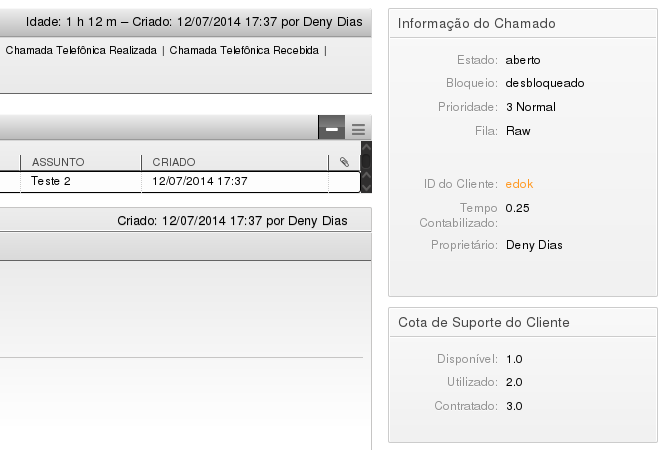
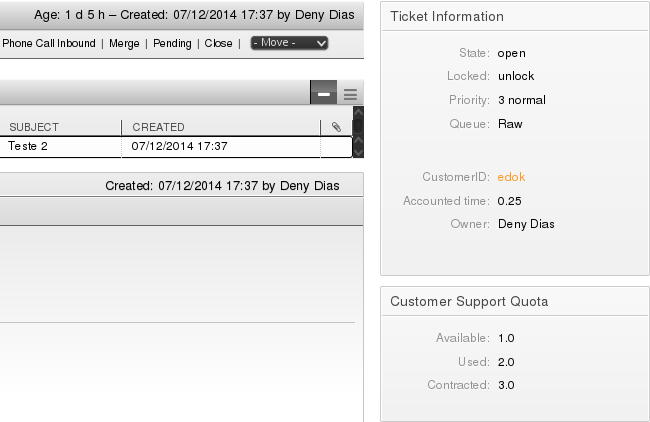
SupportQuota: improve README with how to use, references and close some todos. New screenshot in English.

diff --git a/SupportQuota/README.md b/SupportQuota/README.md
@@ -2,7 +2,7 @@
 
 This OTRS Add-on module provides an easy to use interface to control customer contracted work unit quotas.
 
-By entering a quota to each Customer Company in your OTRS system and taking care to set the proper CustomerCompanyID on your tickets (easy if you use PostMaster Filters), this add-on is able to get the total work unit quota available to a particular customer, how many work units were used in the current period (current month) and how many work units are available to that customer in the same period. If the available quota is negative, there will be extra bucks in the end of the month.
+By entering a quota to each Customer Company in your OTRS system and taking care to set the proper 'CustomerCompanyID' on your tickets (easy if you use PostMaster Filters), this add-on is able to get the total work unit quota available to a particular customer, how many work units were used in the current period (current month) and how many work units are available to that customer in the same period. If the available quota is negative, there will be extra bucks in the end of the month.
 
 The above information then appears in a widget under agent TicketZoom interface so your agents can
 easily decide what to do based on your process on how to charge (or not) for beyond quota customers.
@@ -13,7 +13,7 @@ The screenshot bellow shows how the Support Quota works in the agent GUI:
 
 ## Instalation
 
-Right in this repo, there is an [OTRS Package](https://github.com/denydias/otrs/tree/master/packages) (SupportQuota-0.0.1.opm) ready to install. Download it, open your OTRS and go to 'Admin > Package Management'. Then choose the downloaded package under 'Install Package' button.
+Right in this repo, there is an [OTRS Package](https://github.com/denydias/otrs/tree/master/packages) (SupportQuota-0.0.1.opm) ready to install. Download it, open your OTRS and go to Admin > Package Manager. Then choose the downloaded package under 'Install Package' button.
 
 The package installation takes care of the only database change required. For the matter of the record, it is:
 
@@ -69,13 +69,90 @@ I'm not a Perl developer. I did the best I could to write this add-on with the c
 
 As an start point, I'll give you the following items as a 'To Do List':
 
-* Properly implement the OTRS template mechanism.
-* Add localization support (Brazilian Portuguese is hardcoded). If you need the strings that need translation, open an issue and I'll be more than pleased to provide them.
+* ~~Properly implement the OTRS template mechanism.~~ (done by [reneeb](https://github.com/reneeb) in 6c35790b230104b2124fb2b8a61f63feba4b56bf)
+* ~~Add localization support (Brazilian Portuguese is hardcoded). If you need the strings that need translation, open an issue and I'll be more than pleased to provide them.~~ (done by [reneeb](https://github.com/reneeb) in 6c35790b230104b2124fb2b8a61f63feba4b56bf)
 * Add the widget to AgentCustomerInformationCenter.
 * Add visual cues to over quota customers.
 * Provide notification methods to automatically reply to customers working beyond the contracted quota upon new tickets.
 
 This is just to name a few. I'm open to more.
+
+## How To Use It
+
+There are many use cases (aka support process) where this add-on could fit. I can't imagine it all. As such, I'll describe how one can use it under a use case I know better: myself.
+
+1. Each one of your customers (**their companies, not their people**) should have an entry under Admin > Customer (`AdminCustomerCompany`).
+
+2. For each customer company, set the quota for that customer. This is an integer from 0 to 65535 which corresponds to the customer contract (i.e. 8h, 16h, 24h, 720h). Leave it blank or 0 (zero) if you don't know or the customer has an unlimited service.
+
+3. (OPTIONAL, but recommended) Set a Postmaster Filter for any of your customer companies like this:
+
+    ```
+    From: .*@customerdomain.com
+    X-OTRS-CustomerNo: customername
+    ```
+
+    This ensures that any new ticket get the proper 'CustomerCompanyID' properly set when a new support email arrive.
+
+    **Caveat:** If an agent open a ticket, the 'CustomerCompanyID' should be set manually. The same applies for phone tickets if.
+
+4. (OPTIONAL, but recommended) Go to Admin > SysConfig > Ticket > Frontend::Agent and set:
+
+   ```
+   Ticket::Frontend::TimeUnits: (work units)
+   Ticket::Frontend::NeedAccountedTime: yes
+   ```
+
+   This ensures that every agent action upon a ticket needs to be time accounted.
+
+5. Now that you are all set on OTRS side, every time an agent get into a new ticket to work on it, the time accounted to a particular customer is shown in the little panel at right. If the customer have no quota available, the agent can request a written authorization to charge the above quota service or just deny further developments.
+
+### Usage Notes
+
+The Support Quota widget in TicketZoom shows the quota for the current month only and just for the particular 'CustomerCompanyID' set to the ticket. If you need to get a report by the end of the month to charge the extra work units, you must go to Admin > SQL Box and run a query like:
+
+```sql
+SELECT t.tn "Ticket #",
+   t.title Title,
+   t.customer_id Customer,
+   SUM(ta.time_unit) "Work Units",
+   DATE_FORMAT(t.create_time, "%h:%m:%s %d/%m/%Y") Created
+FROM ticket t
+   LEFT JOIN time_accounting ta ON ta.ticket_id=t.id
+WHERE
+   ta.time_unit is not null
+   AND t.customer_id="CustomerCompanyID"
+   AND year(t.create_time) = year(now())
+   AND month(t.create_time) = month(now())
+GROUP BY t.tn
+ORDER BY t.create_time
+```
+
+Don't forget to change `CustomerCompanyID` above to the one the matches your customer in OTRS.
+
+From within SQL Box you can save a CSV file so you can share straight with the customer.
+
+## References
+
+To write this OTRS add-on, my first one, I counted on many references. Bellow I list the main ones:
+
+1. [OTRS 3.3 - Developer Manual](http://otrs.github.io/doc/manual/developer/3.3/en/html/index.html)
+
+2. From OtterHub e.V. User Forums:
+
+    [How to add a field in the company details window](http://forums.otterhub.org/viewtopic.php?f=53&t=18627)
+
+    [Problem with adding new fields to customer_company](http://forums.otterhub.org/viewtopic.php?f=62&t=25080)
+
+    [Custom Field on "Add Customer" page](http://forums.otterhub.org/viewtopic.php?f=53&t=11508)
+
+    [Add "next ticket" button in AgentTicketZoom](http://forums.otterhub.org/viewtopic.php?f=64&t=16586)
+
+3. [Zuny Repo](https://github.com/znuny)
+
+4. [OTRS Package that allows SMS sending](https://github.com/richieri/SmsEvent)
+
+I'd like to acknowledge and thanks all the above list.
 
 ## License
 
